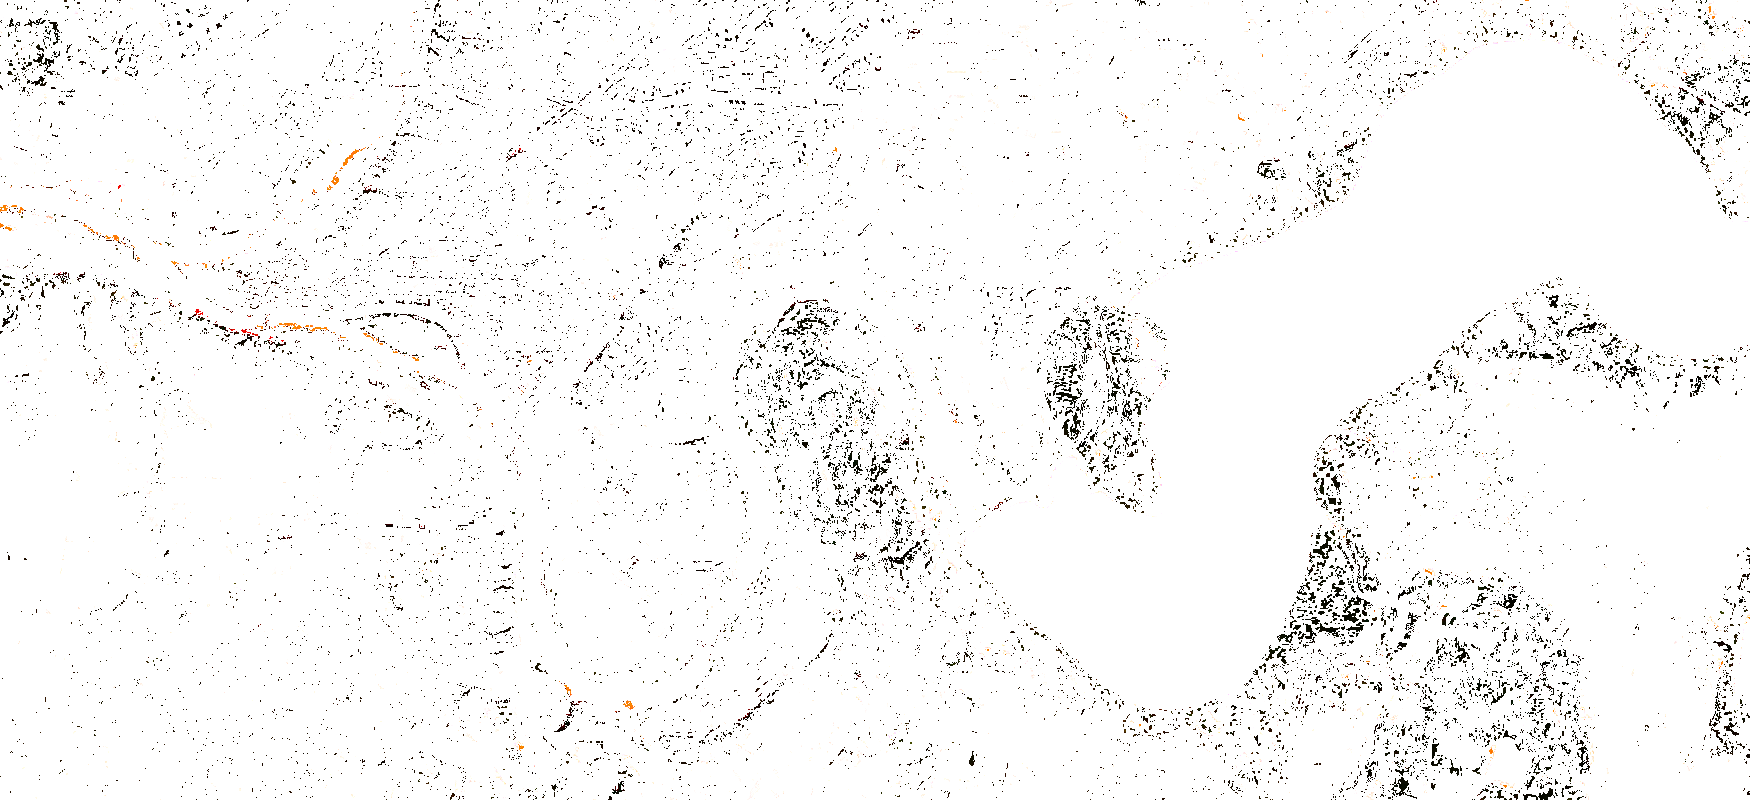
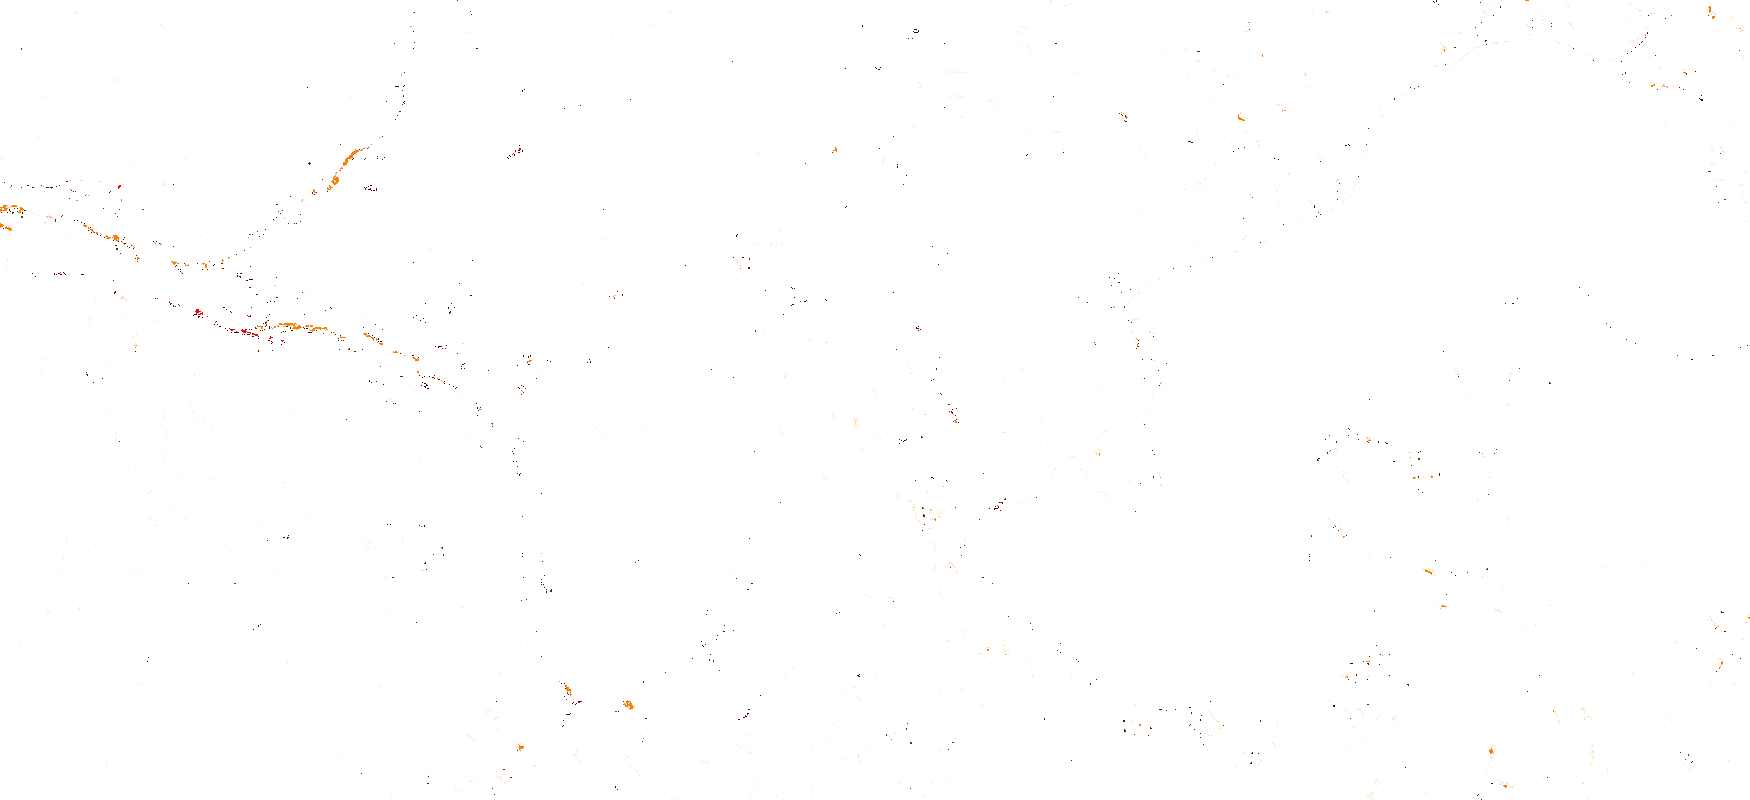
Fix black pixels

diff --git a/transparency.py b/transparency.py
@@ -48,6 +48,10 @@ def make_water_comparison_transparent(filename):
         else:
             newData.append(item)
 
+    for i in range(len(newData)):
+        if newData[i][0] <= 60 and newData[i][1] <= 60 and newData[i][2] <= 60:
+            newData[i] = (newData[i][0], newData[i][1], newData[i][2], 0)
+
     rgba.putdata(newData)
     rgba.save(f"{sys.path[1]}/transparent_comparison/{filename}.png", "PNG")
 
